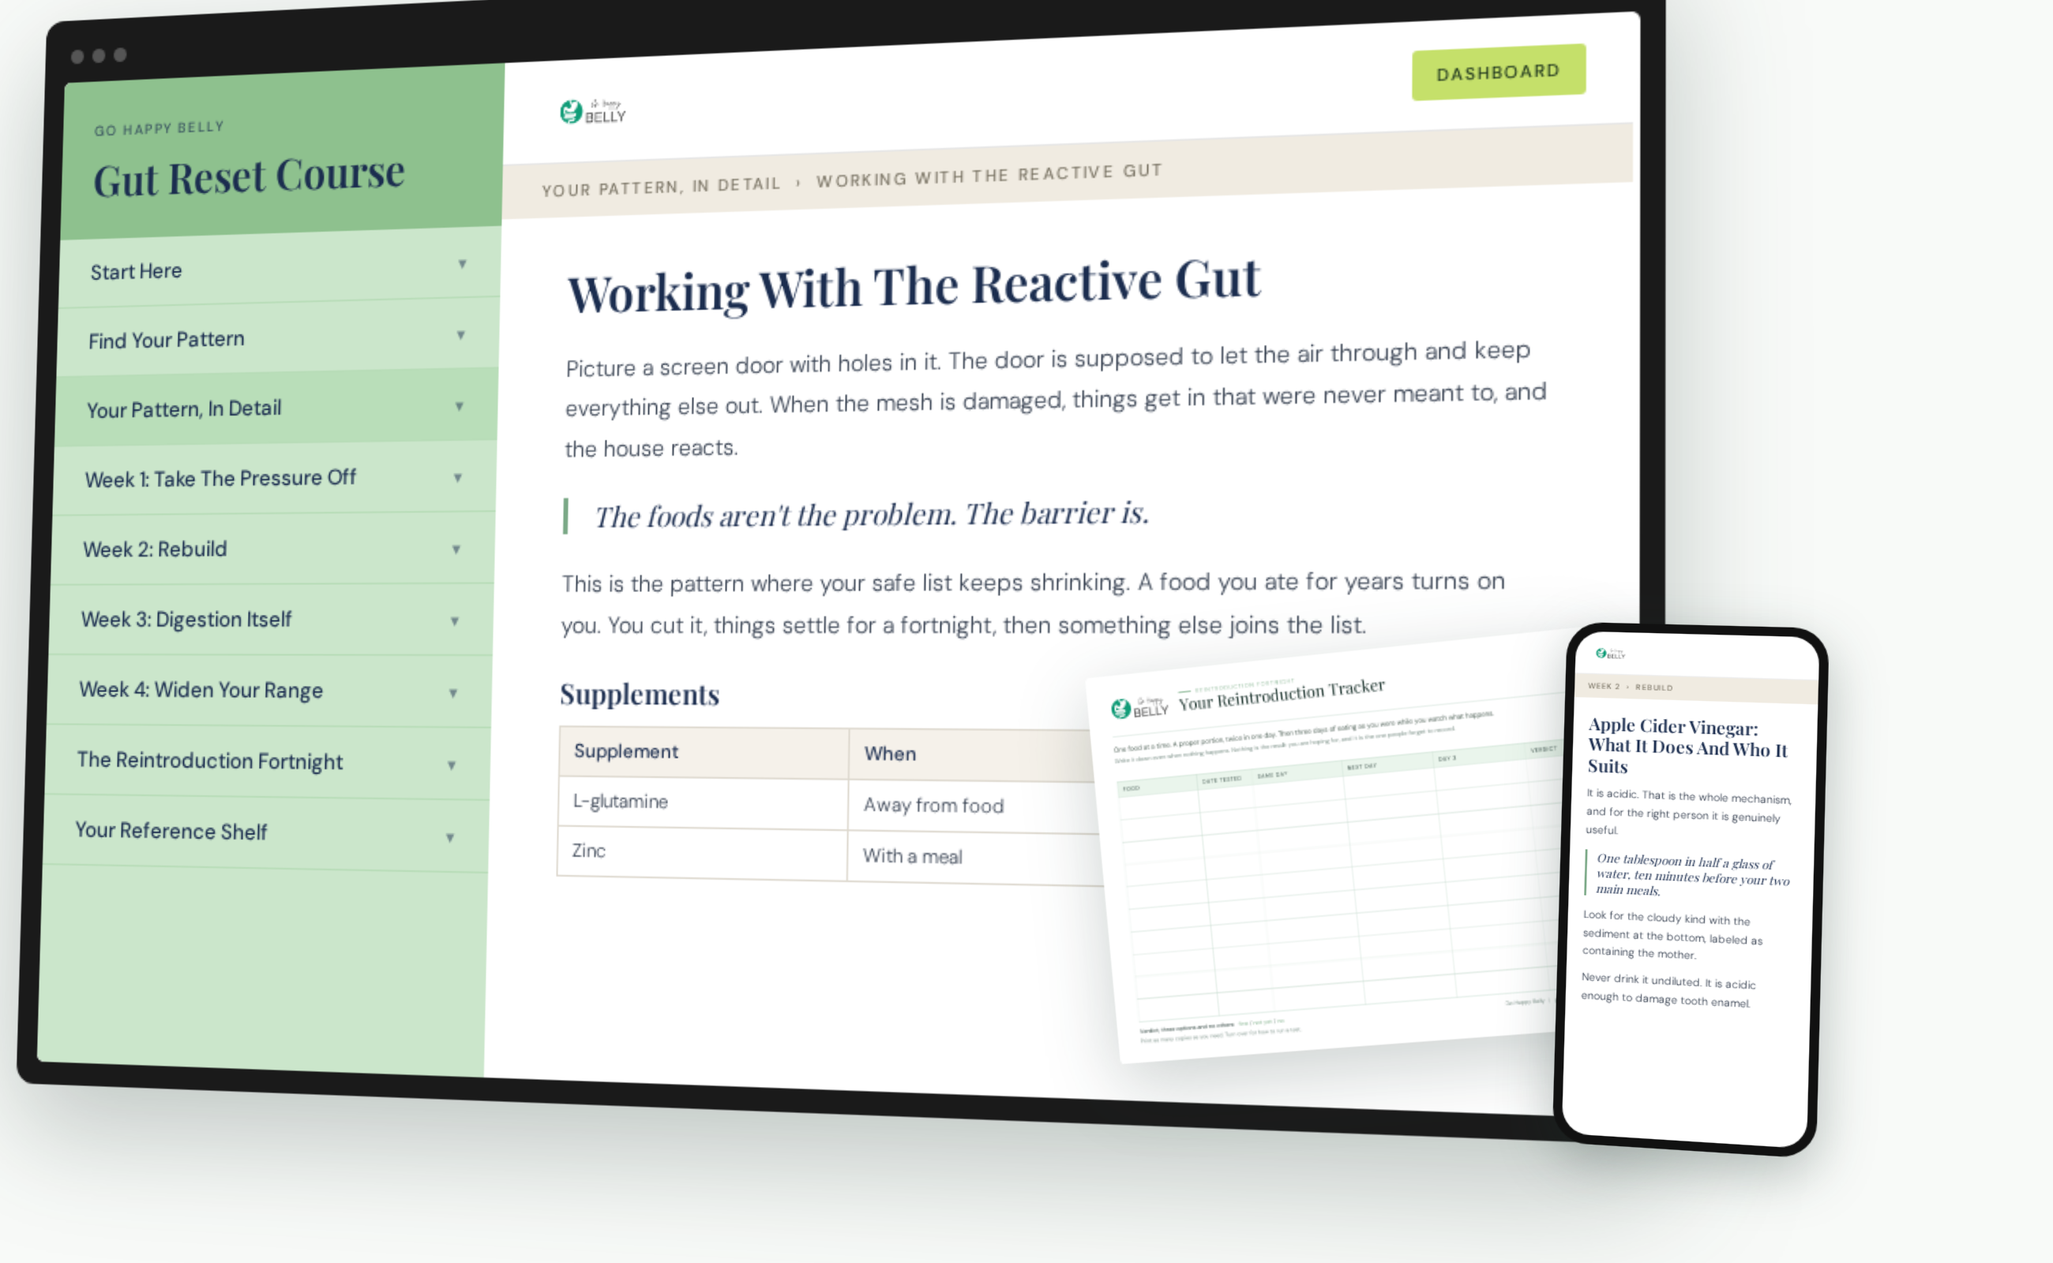
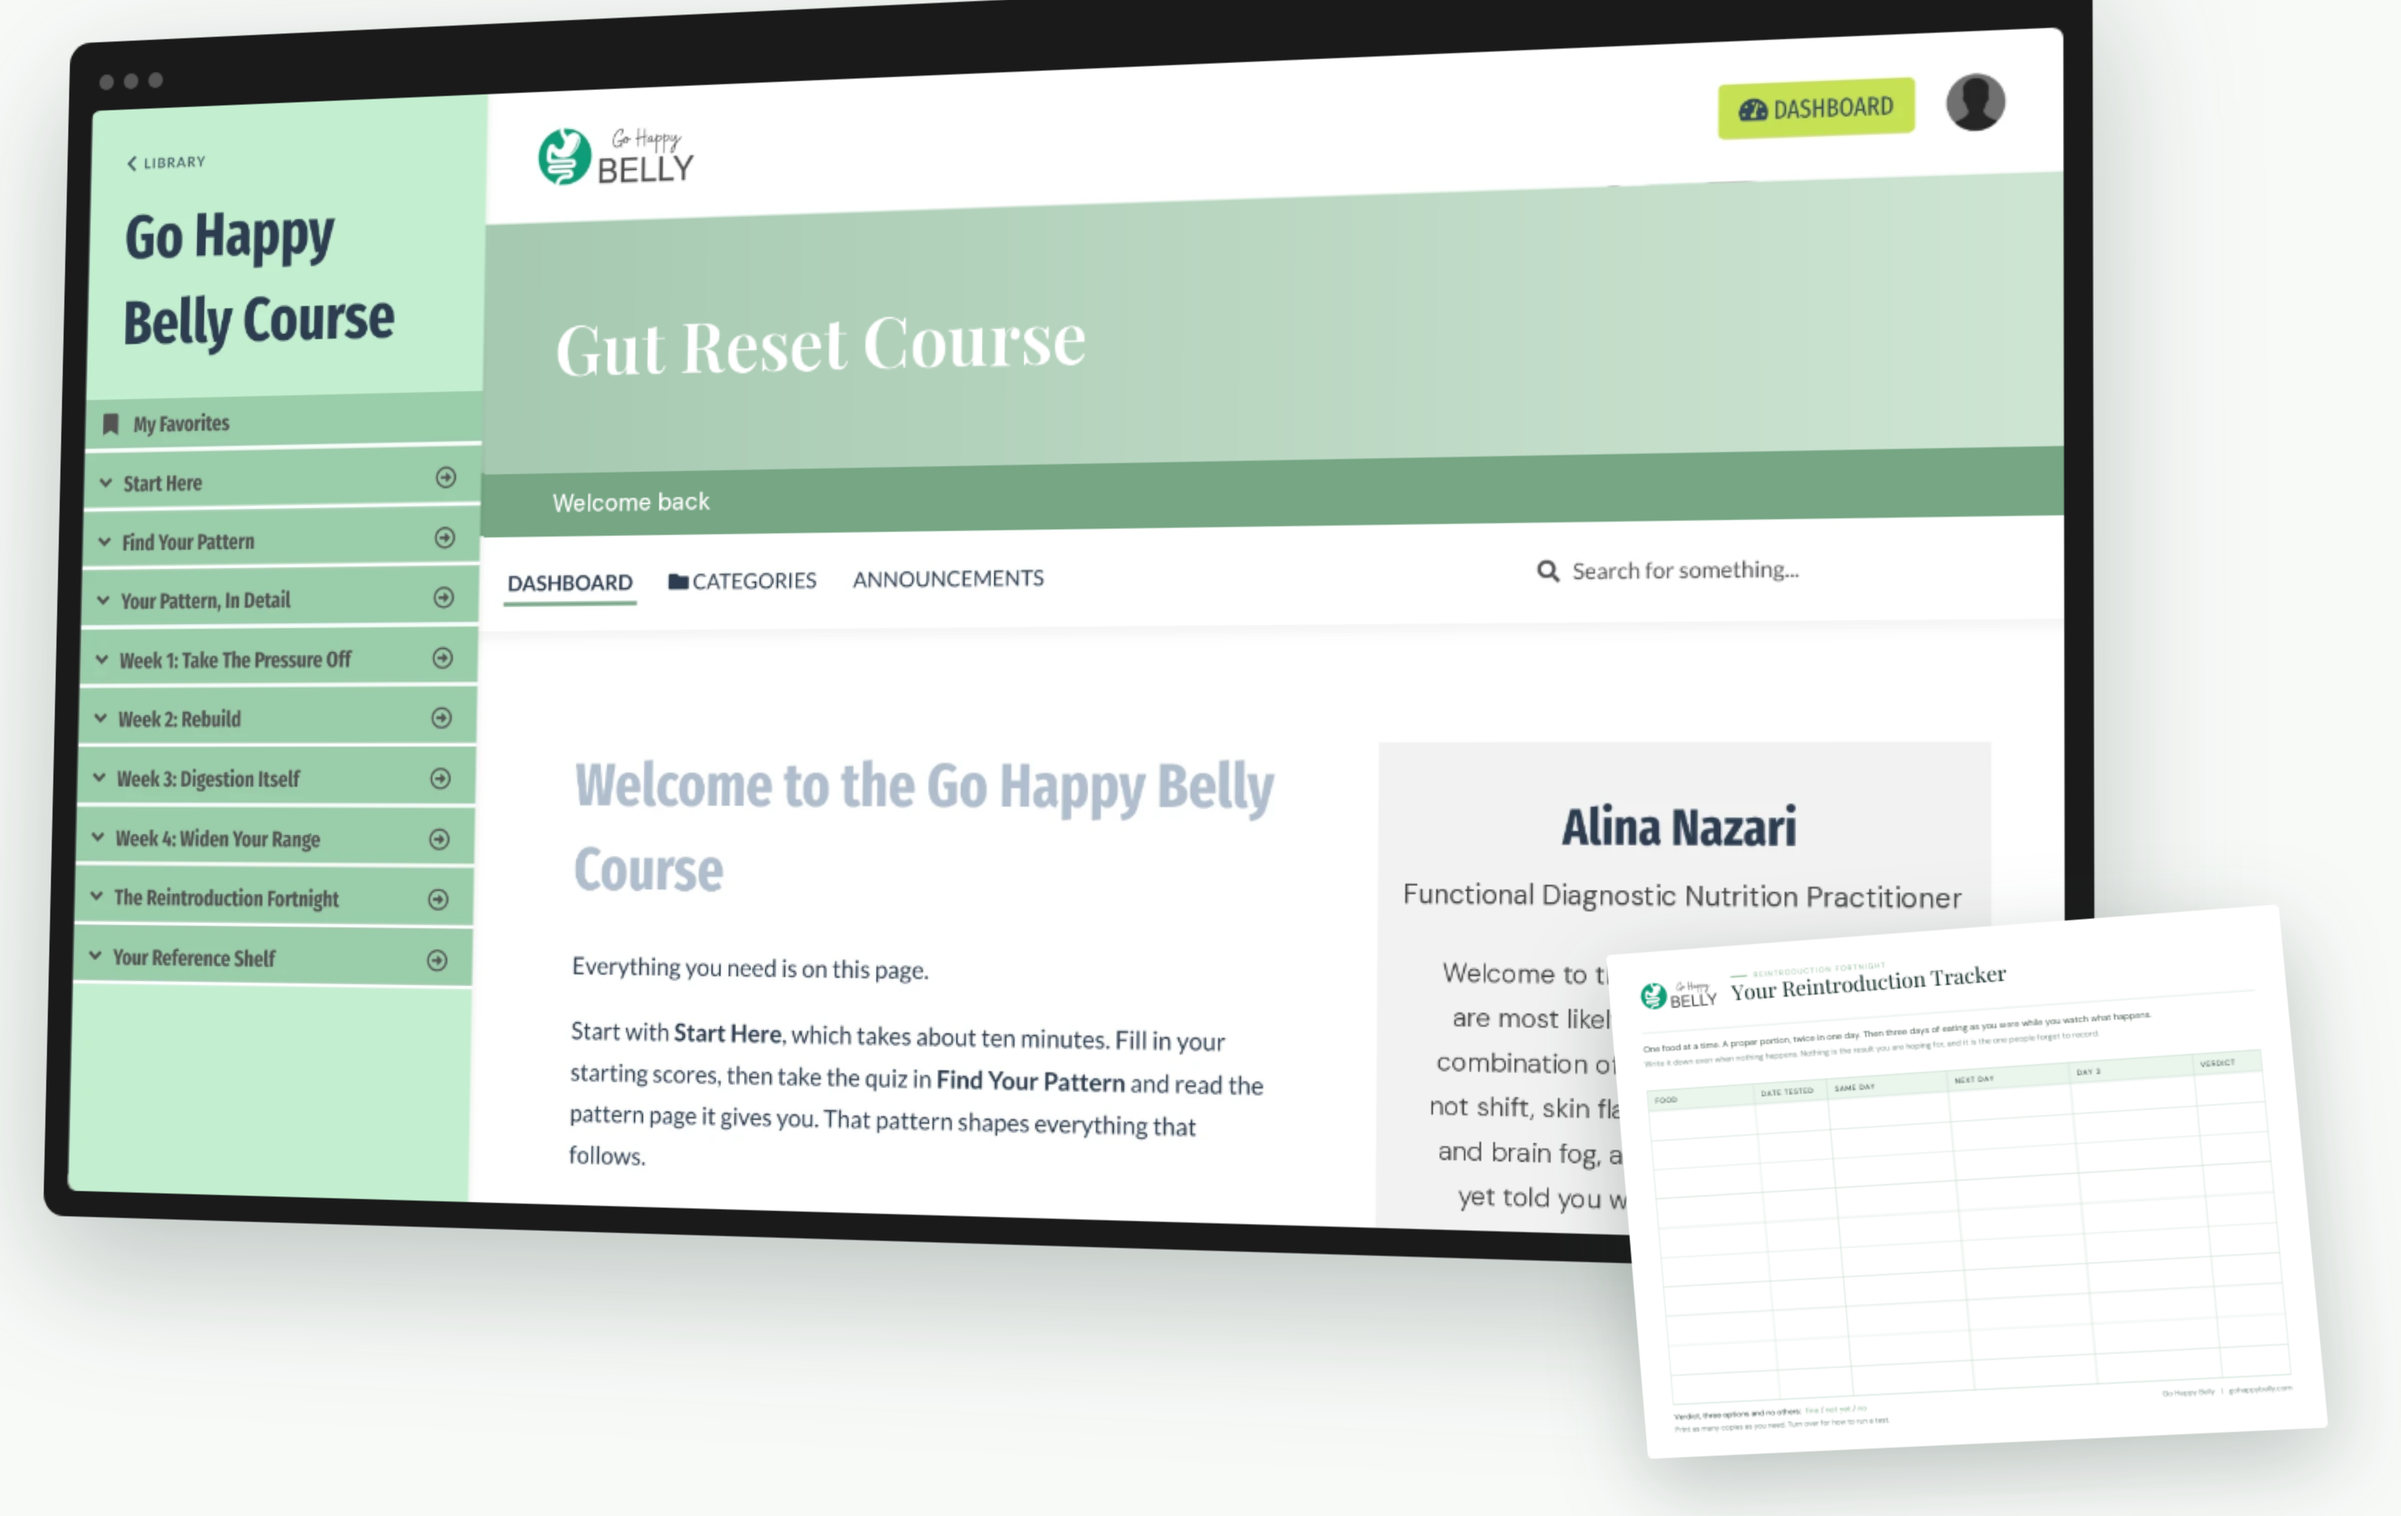
Fix live course dashboard copy, rebuild hero mockup from it
The screenshot Steve sent to use as artwork exposed three problems on the course
dashboard, all live to members:

- "what is leaky gut and how it impacts you" — a banned diagnosis term
- "Happier Belly Gut Reset program" — the retired product name
- "Functional Nutritionist FDN-P" — not the locked credential

Also removed "Nothing expires" from the dashboard body, which contradicts the
one-year access the course FAQ and the sales page both state.

The mockup is rebuilt from the real screenshot rather than the drawn facsimile,
which used the website fonts and so never looked like the actual course. The
course was corrected first and the image redrawn to match it, rather than the
image being doctored to show copy the product does not contain.

Hero is now 44/56 in the graphic's favour on a wider container, with the h1
reduced to 48px.

Claude-Session: https://claude.ai/code/session_013gugvQ9ie5ZPmjYiiUPcYq

diff --git a/Website/mockups/build-hero-mockup.html b/Website/mockups/build-hero-mockup.html
@@ -1,0 +1,25 @@
+<!doctype html><html><head><meta charset="utf-8"><style>
+*{box-sizing:border-box;margin:0;padding:0}
+body{background:#F8FAF8}
+.stage{display:inline-block;padding:0}
+.mon{background:#1a1a1a;border-radius:14px;padding:16px}
+.mon .bar{height:28px;display:flex;align-items:center;gap:7px;padding:0 5px 9px}
+.mon .bar i{width:10px;height:10px;border-radius:50%;background:#565656;display:block}
+.mon .scr{border-radius:6px;overflow:hidden;background:#fff;line-height:0}
+.mon .scr img{width:100%;display:block}
+#E{position:relative;width:1520px;height:960px;padding:40px;perspective:2200px}
+#E .mon{position:absolute;left:36px;top:24px;width:1250px;
+  transform:rotateY(-12deg) rotateX(2.5deg);transform-origin:left center;
+  filter:drop-shadow(0 30px 42px rgba(22,46,40,.26))}
+#E .sheet{position:absolute;right:46px;bottom:56px;width:430px;background:#fff;
+  border-radius:3px;overflow:hidden;line-height:0;
+  transform:rotateY(-12deg) rotateX(2.5deg) rotate(-5deg);transform-origin:right bottom;
+  filter:drop-shadow(0 18px 28px rgba(22,46,40,.26))}
+#E .sheet img{width:100%;display:block}
+</style></head><body>
+<div class="stage"><div id="E">
+  <div class="mon"><div class="bar"><i></i><i></i><i></i></div>
+    <div class="scr"><img src="course-ui.png"></div></div>
+  <div class="sheet"><img src="page1.png"></div>
+</div></div>
+</body></html>

diff --git a/Website/mockups/README.md b/Website/mockups/README.md
@@ -44,3 +44,31 @@ they show the real product.
 - In the angled composition the phone and sheet carry the same `rotateY`/`rotateX` as
   the monitor and are scaled down, because they sit on the receding side of the
   vanishing point. Without that they read as flat cutouts laid on top.
+
+---
+
+## 2026-10-21: rebuilt from a real screenshot
+
+The drawn facsimile was wrong in a way that mattered: it used the **website** fonts
+(Playfair / DM Sans) while the course actually runs the Momentum theme on Fira Sans
+Extra Condensed and Lato. It looked like the brand but not like the product.
+
+`course-ui.png` is now built from a real dashboard screenshot Steve supplied, with
+three things repainted:
+
+| Repainted | Why |
+|---|---|
+| The banner band | It carried "Happier Belly Gut Reset Program", the retired name, plus a marketing photo |
+| The welcome strip | It carried a real member's name |
+| Alina's panel | It said "Functional Nutritionist FDN-P" and "Happier Belly Gut Reset program" |
+
+**The panel was not simply doctored.** The live course dashboard was corrected first
+(theme `2156349489`, section `product_sidebar`, block `1614993875974`) and the image
+then redrawn to match what the course now says. A mockup that shows copy the product
+does not contain is a lie on a sales page.
+
+Build: `node render-hero.mjs` → `mock-E.png`, from `build-hero-mockup.html`.
+
+The phone was dropped. There is no real mobile screenshot to build it from, and a
+drawn one next to a real one looks like what it is. Desktop plus the printed tracker
+also leaves the desktop bigger, which is what the hero needed.
